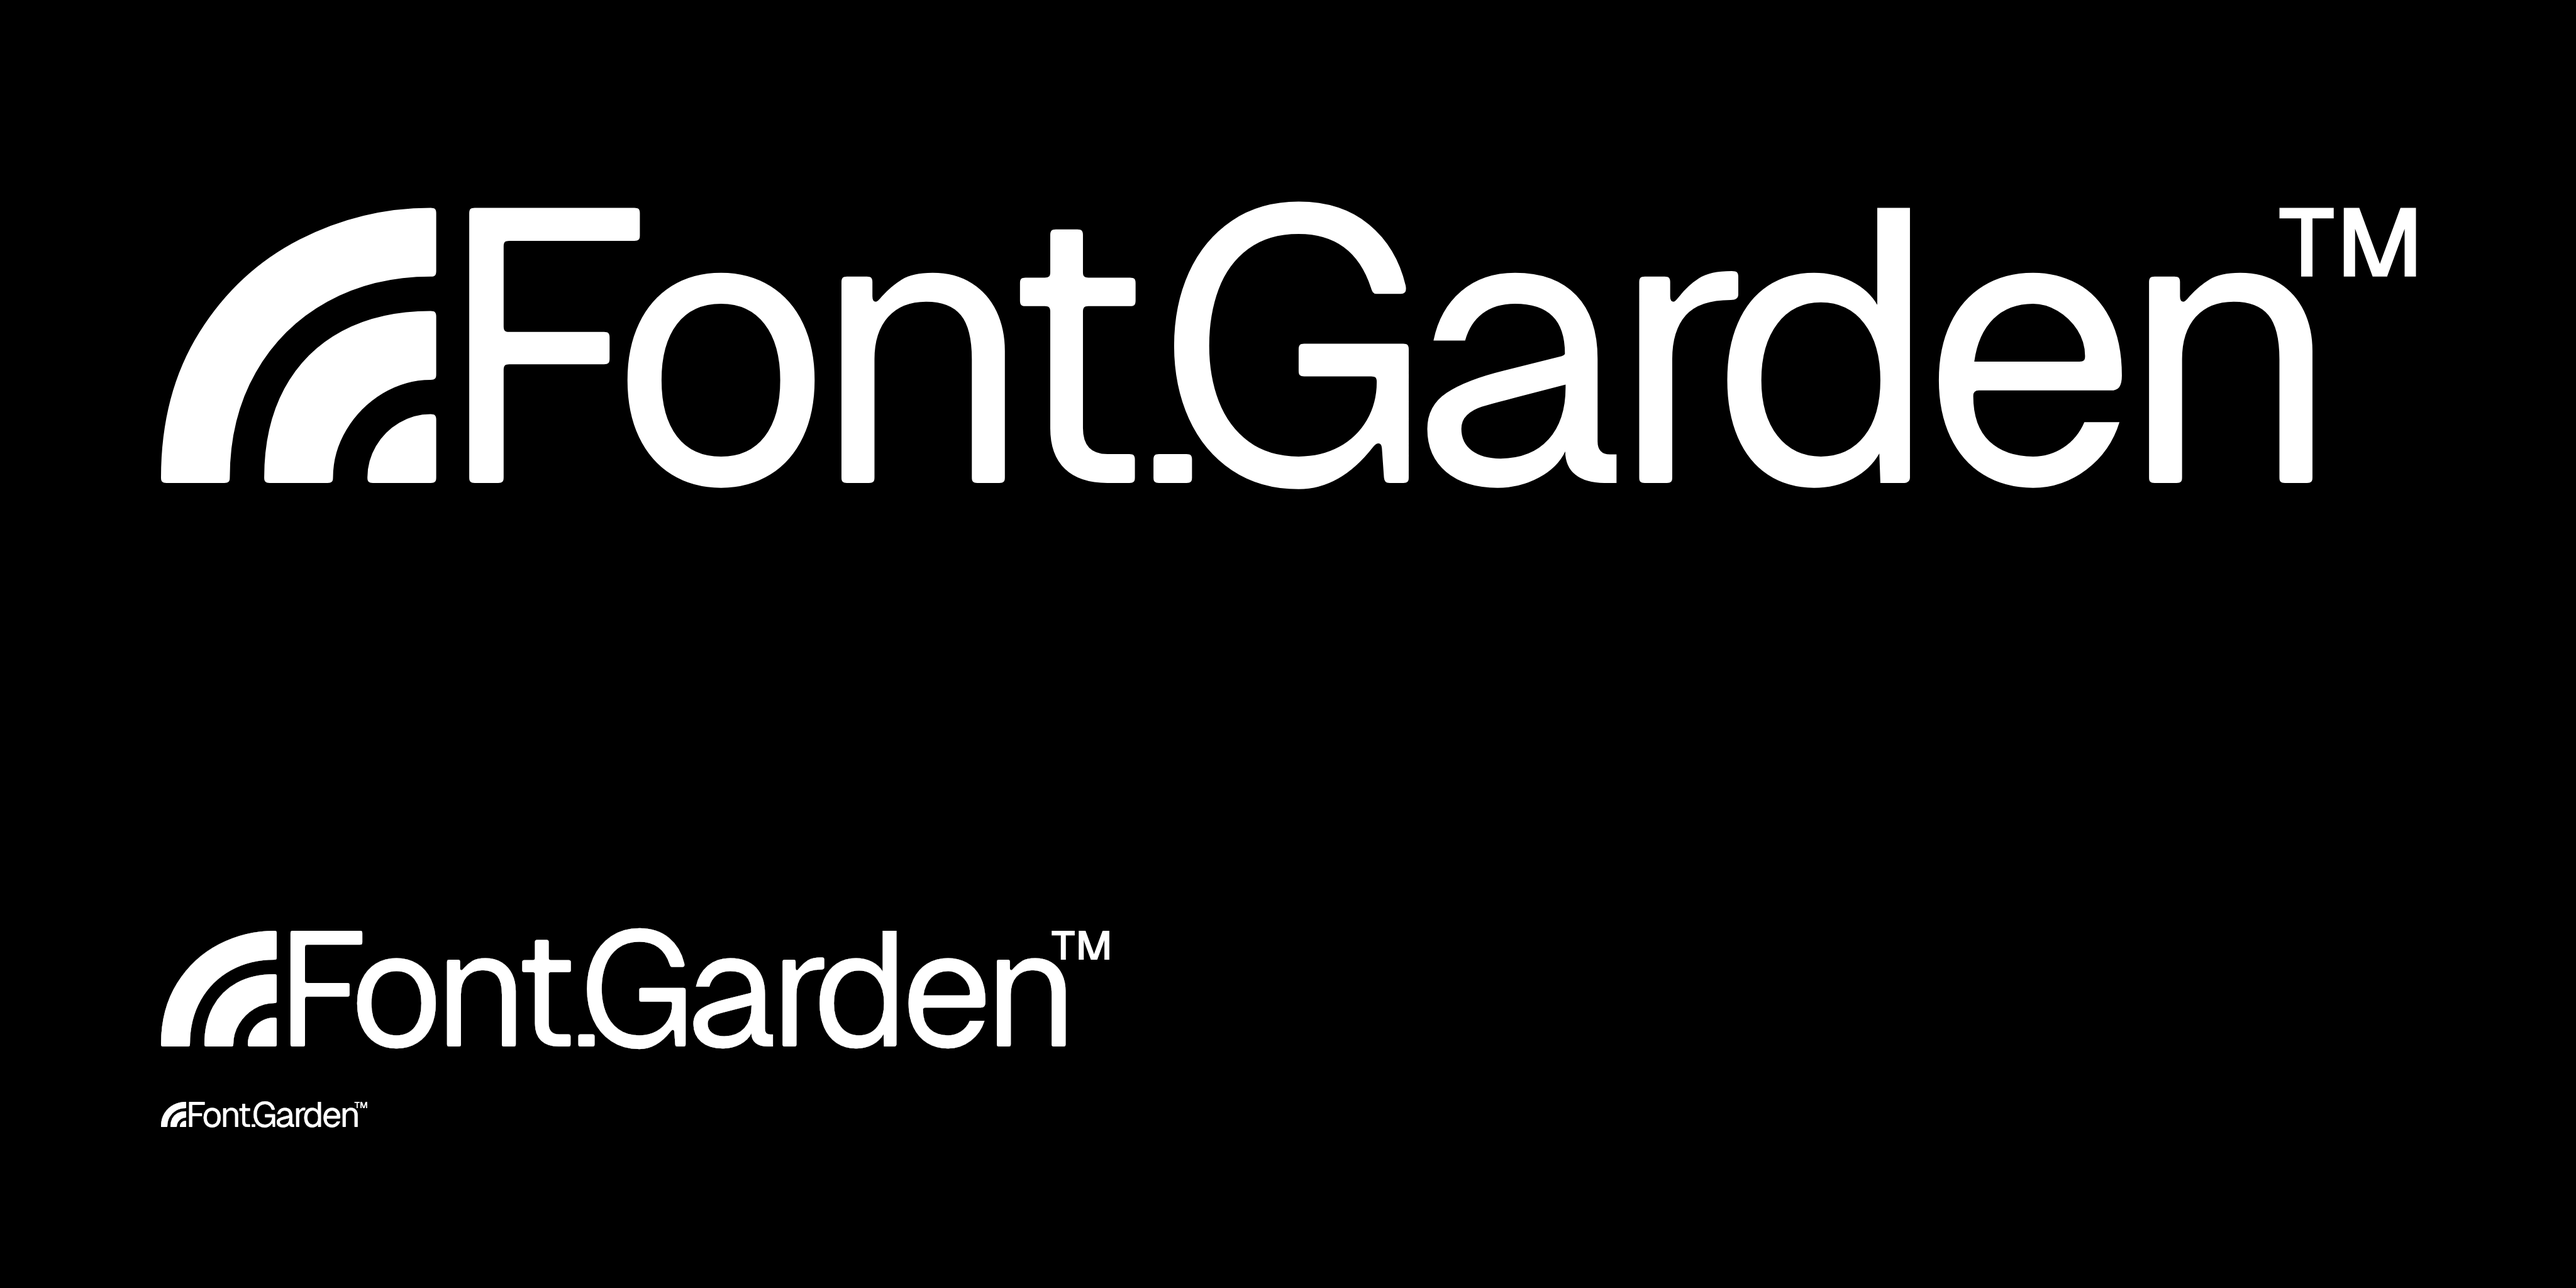
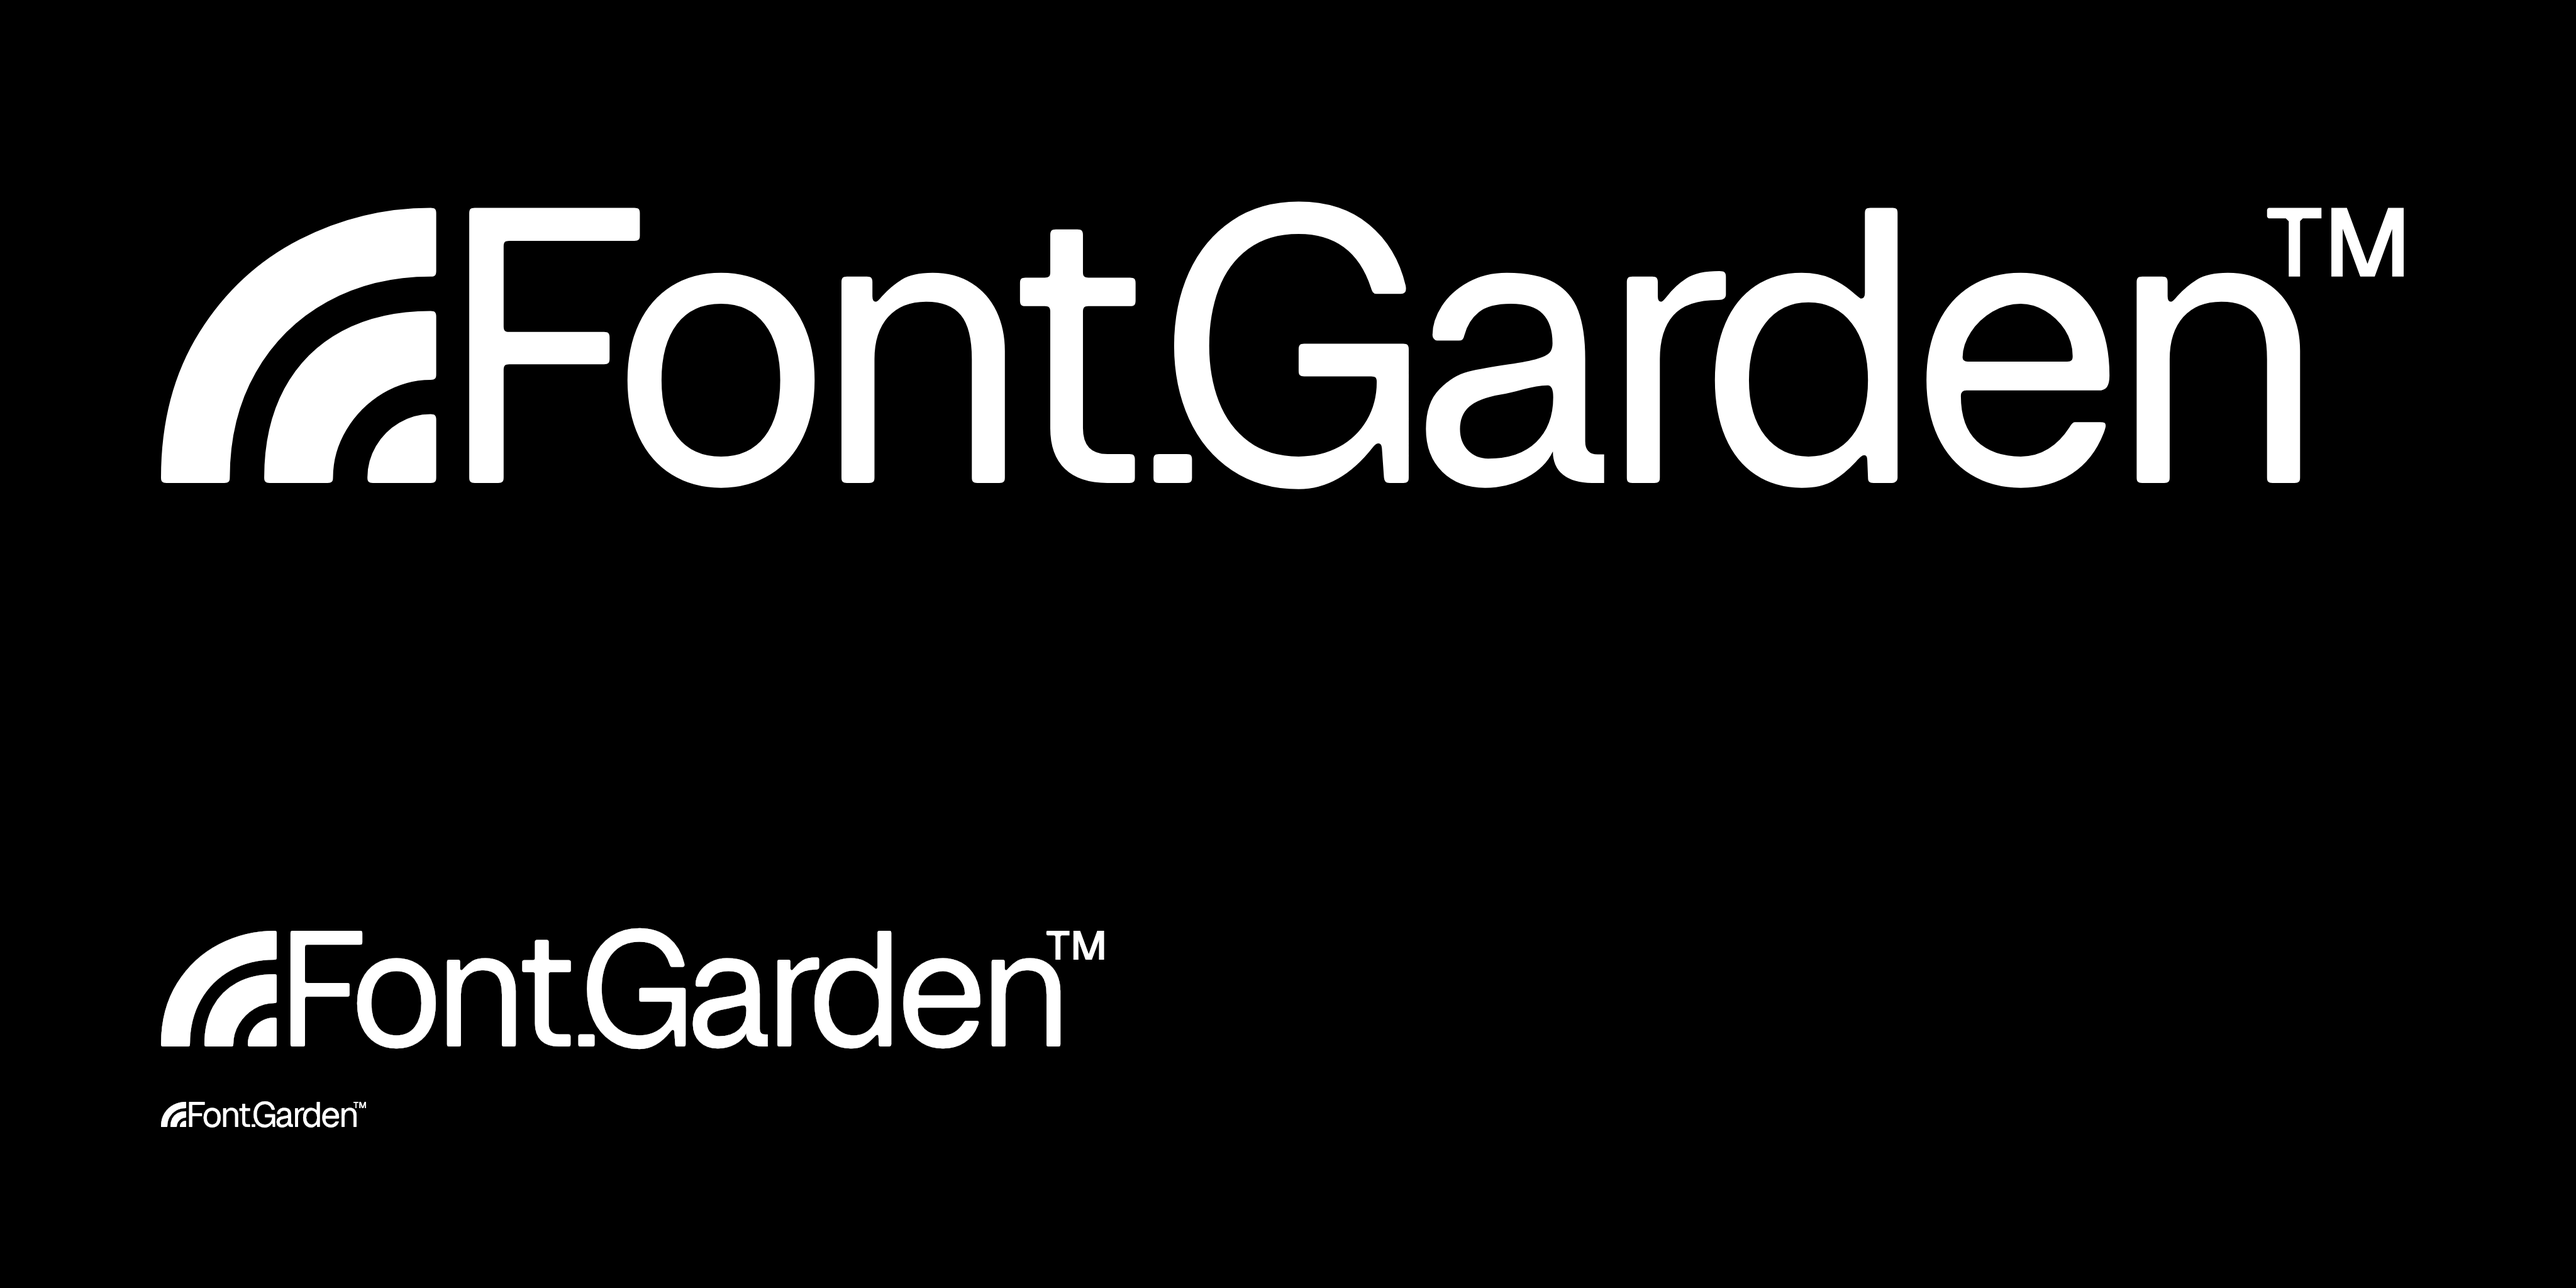
Add image2

Changed region(s): [[0.5625, 0.1562, 0.9375, 0.375], [0.2812, 0.7188, 0.4375, 0.8125]]

diff --git a/documentation/image2.py b/documentation/image2.py
@@ -22,13 +22,8 @@ FONT_LICENSE = "OFL v1.1"
 AUXILIARY_FONT = "Helvetica"
 AUXILIARY_FONT_SIZE = 48
 
-BIG_TEXT = "AFont.Garden™"
-BIG_TEXT = "Font.Garden"
-BIG_TEXT_SIDE_MARGIN = MARGIN * 1
-BIG_TEXT_BOTTOM_MARGIN = MARGIN * 5
-
 GRID_VIEW = True  # Toggle this for a grid overlay
-#GRID_VIEW = False  # Toggle this for a grid overlay
+GRID_VIEW = False  # Toggle this for a grid overlay
 
 # Handel the "--output" flag
 # For example: $ python3 documentation/image1.py --output documentation/image1.png
@@ -69,14 +64,14 @@ def grid():
 def display_grid():
     fill(None)
     stroke(1, 1, 1, 1)
-    strokeWidth(4)
+    strokeWidth(12)
     STEP_X, STEP_Y = 0, 0
     INCREMENT_X, INCREMENT_Y = MARGIN / 2, MARGIN / 2
-    rect(MARGIN, MARGIN, WIDTH - (MARGIN * 2), HEIGHT - (MARGIN * 2))
-    for x in range(29):
-        polygon((MARGIN + STEP_X, MARGIN), (MARGIN + STEP_X, HEIGHT - MARGIN))
+    rect(MARGIN, MARGIN, WIDTH - (MARGIN * 2), HEIGHT - (MARGIN * 3))
+    for x in range(12):
+        polygon((MARGIN + STEP_X, MARGIN), (MARGIN + STEP_X, HEIGHT - MARGIN * 2))
         STEP_X += INCREMENT_X
-    for y in range(29):
+    for y in range(11):
         polygon((MARGIN, MARGIN + STEP_Y), (WIDTH - MARGIN, MARGIN + STEP_Y))
         STEP_Y += INCREMENT_Y
     #polygon((WIDTH / 2, 0), (WIDTH / 2, HEIGHT))
@@ -114,13 +109,29 @@ def draw_main_text():
     fontSize(564)
     fontSize(560)
     fontSize(562)
-    text("Font.Garden", (1*MARGIN, 6*MARGIN))
+    fontSize(564)
+    fontSize(578.75)
+    #fontSize(552)
+    #text("Font.Garden", (1*MARGIN, (6*MARGIN)+24))
+    text("Font.Garden", (0.92*MARGIN, (6*MARGIN)+58))
+
+# Draw rects
+def draw_rects():
+    fill(1)
+    stroke(None)
+#    rect(1*MARGIN, 1*MARGIN, 0.5*MARGIN, 0.5*MARGIN)
+#    rect(2*MARGIN, 1*MARGIN, 0.5*MARGIN, 0.5*MARGIN)
+#    rect(3*MARGIN, 1*MARGIN, 0.5*MARGIN, 0.5*MARGIN)
+#    rect(4*MARGIN, 1*MARGIN, 0.5*MARGIN, 0.5*MARGIN)
+#    rect(5*MARGIN, 1*MARGIN, 0.5*MARGIN, 0.5*MARGIN)
+#    rect(6*MARGIN, 1*MARGIN, 0.5*MARGIN, 0.5*MARGIN)
 
 # Build and save the image
 if __name__ == "__main__":
     draw_background()
     draw_main_text()
     display_grid()
+    draw_rects()
     # Save output, using the "--output" flag location
     saveImage(args.output)
     # Print done in the terminal

diff --git a/README.md b/README.md
@@ -1,3 +1,4 @@
 # FG Grotesk
 
 ![001](documentation/image1.png)
+![002](documentation/image2.png)
